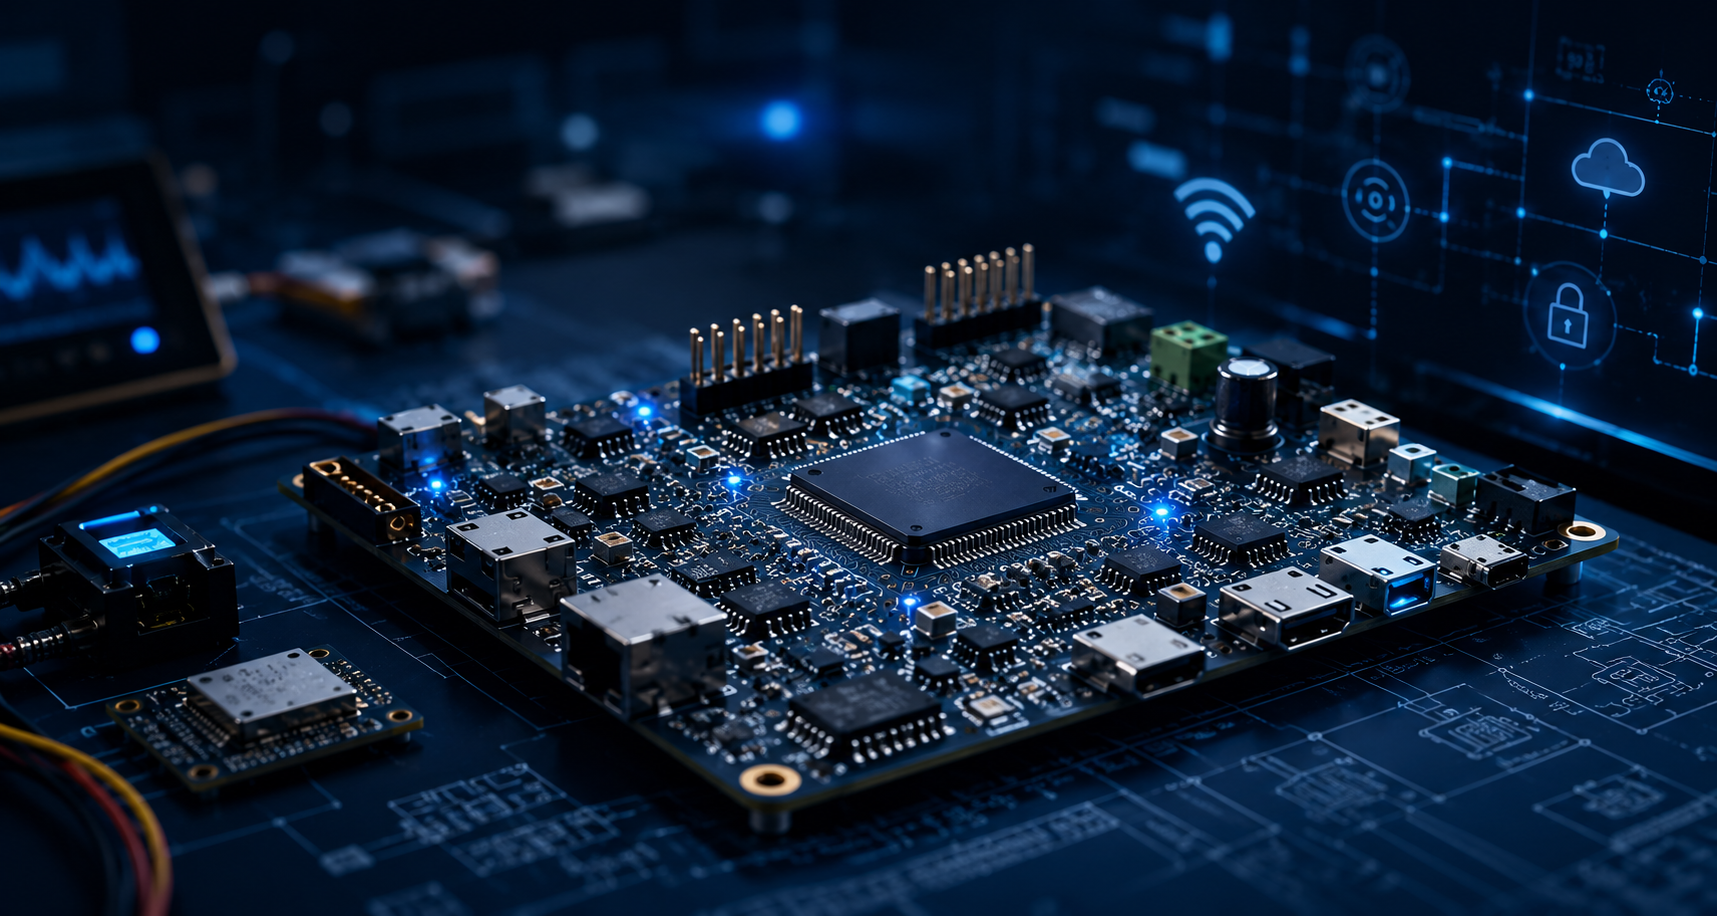
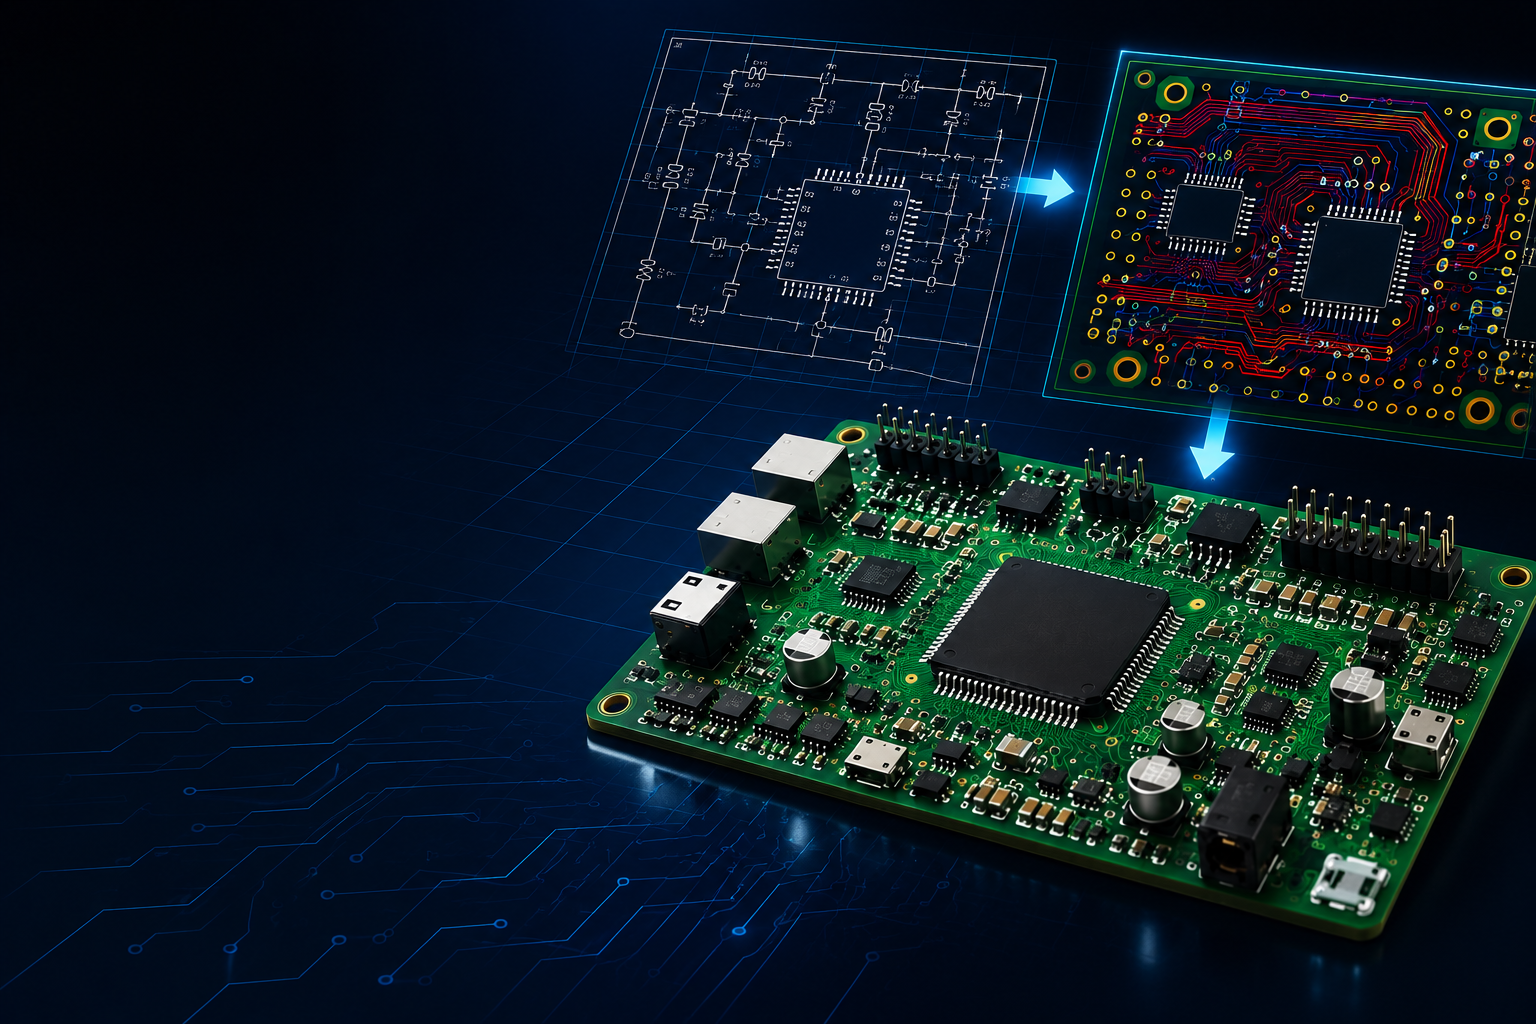
commited

diff --git a/sliders/index.html b/sliders/index.html
@@ -350,10 +350,10 @@ const CAR_CONTENT = [
 ];
 
 const CONTENT = [
-  { eyebrow: "Electronic Product Engineering", title: "Engineering Smart Electronic Products", desc: "We design custom electronics, embedded systems, wireless connectivity, and IoT solutions that transform ideas into market-ready products..", cta: "Start Your Project" },
-  { eyebrow: "Connected Product Development", title: "Build Connected Electronic Products", desc: "From hardware design and embedded firmware to smart connectivity, we engineer reliable products for modern businesses.", cta: "Talk to our Experts" },
-  { eyebrow: "End to End Engineering", title: "Complete Product Engineering Services", desc: "Helping startups, OEMs, and enterprises develop intelligent electronic products with end-to-end engineering expertise.", cta: "Let's Build Together" },
-  { eyebrow: "Embedded Systems and Connectivity", title: "Design Smarter Connected Devices", desc: "Complete electronic product development including PCB design, embedded software, wireless communication, and manufacturing support.", cta: "Get Started" }
+  { eyebrow: "Electronic Product Engineering", title: "Engineering Smart Electronic Products", desc: "We design custom electronics, embedded systems, wireless connectivity, and IoT solutions that transform ideas into market-ready products..", cta: "START WITH US" },
+  { eyebrow: "Connected Product Development", title: "Build Connected Electronic Products", desc: "From hardware design and embedded firmware to smart connectivity, we engineer reliable products for modern markets.", cta: "CONSULT WITH US" },
+  { eyebrow: "CONCEPT REALIZATION", title: "Complete Product Design Services", desc: "Helping startups, OEMs, and enterprises develop intelligent electronic products with end-to-end engineering expertise.", cta: "Let's Build Together" },
+  { eyebrow: "EMBEDDED SYSTEMS DESIGN", title: "Smarter and Secured wireless devices", desc: "Complete electronic product development including PCB design, embedded software, wireless communication, and manufacturing support.", cta: "SUCCESS TOGETHER" }
 ];
 
 const ENGINES = [
